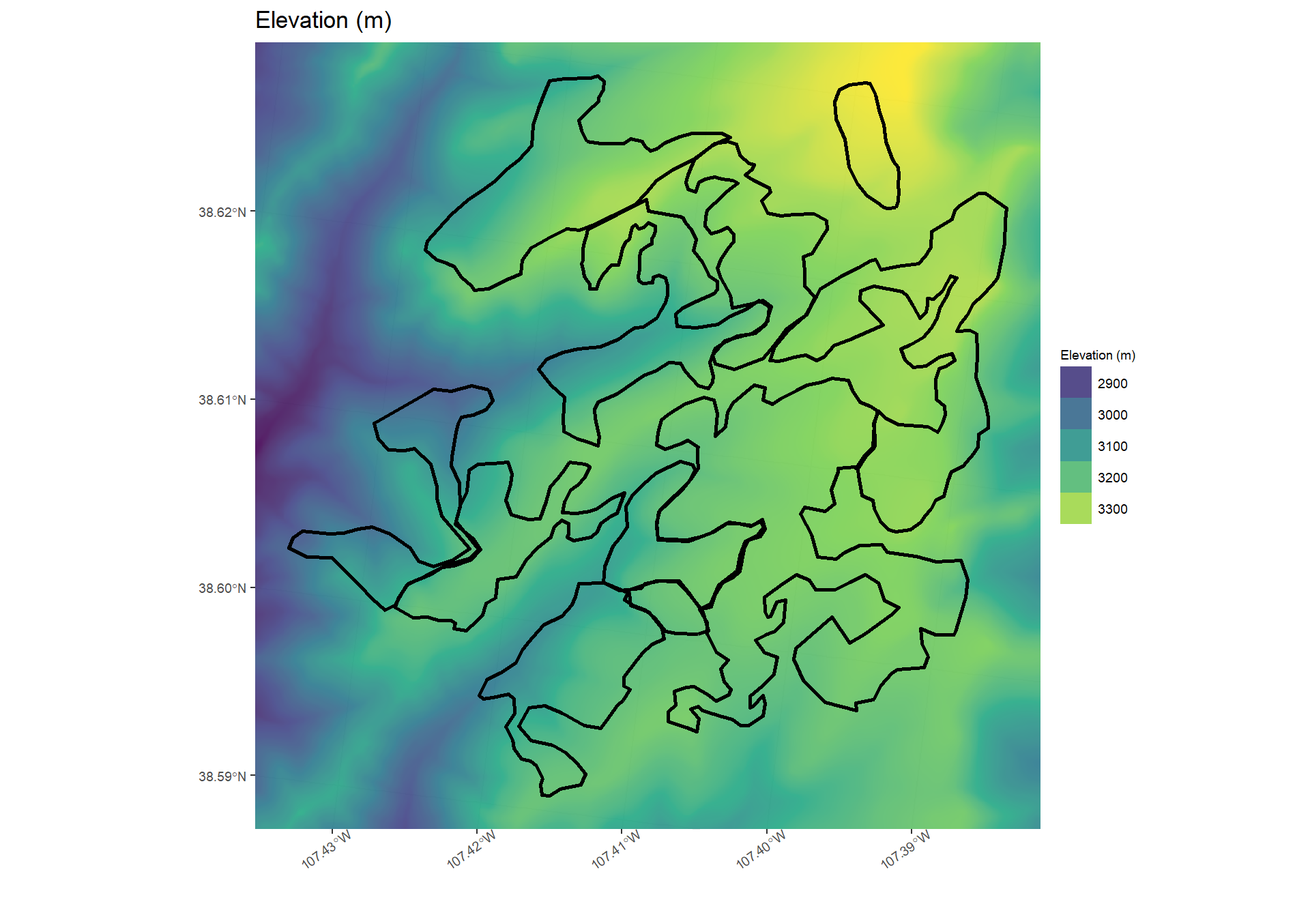
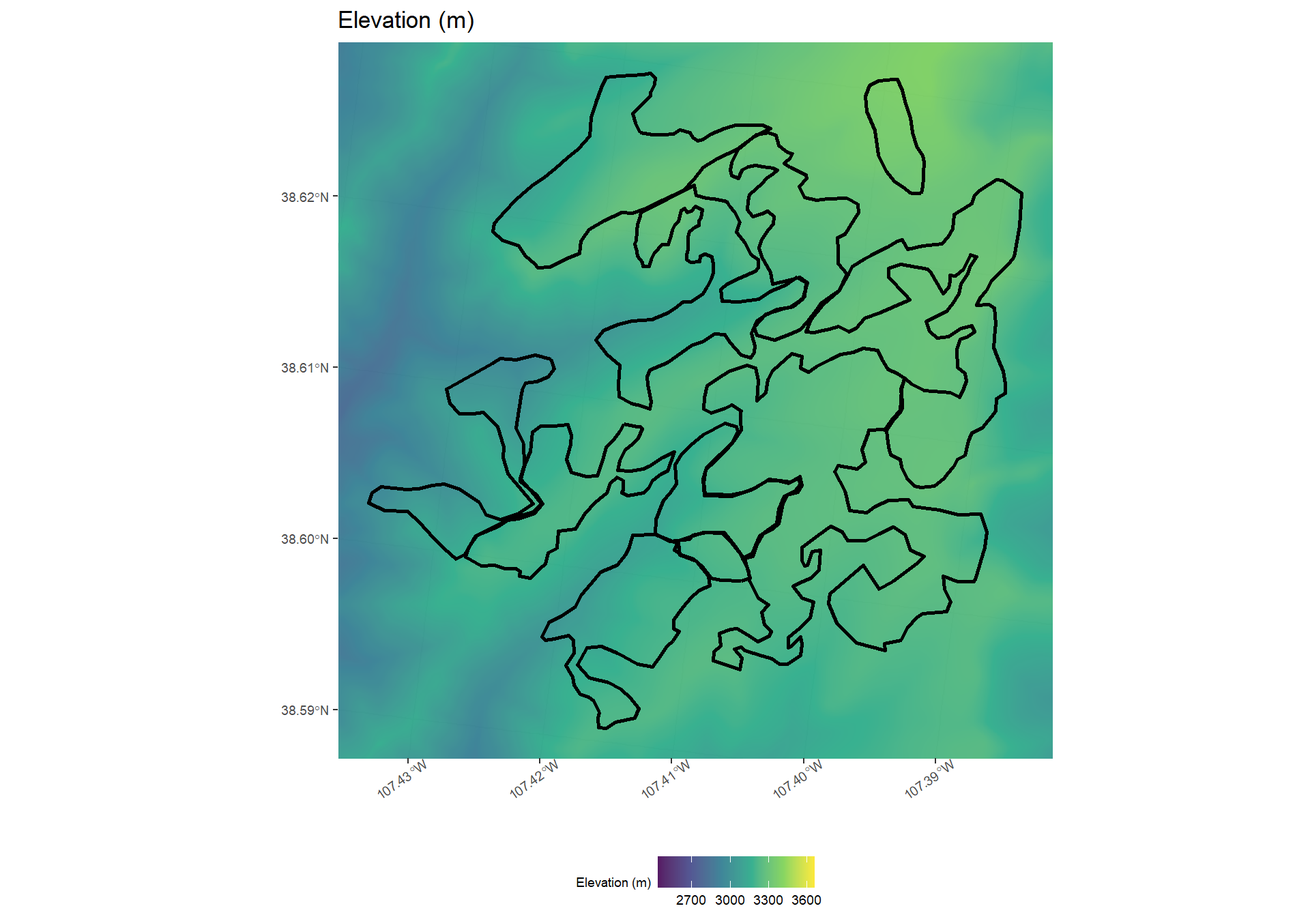
updating

diff --git a/docs/import_data.html b/docs/import_data.html
@@ -23,7 +23,7 @@
 <meta name="author" content="George Woolsey" />
 
 
-<meta name="date" content="2022-10-08" />
+<meta name="date" content="2022-10-09" />
 
   <meta name="viewport" content="width=device-width, initial-scale=1" />
   <meta name="apple-mobile-web-app-capable" content="yes" />
@@ -503,47 +503,63 @@ where <span class="math inline">\(\theta\)</span> = aspect in degrees east of no
 <span id="cb12-16"><a href="import_data.html#cb12-16" aria-hidden="true" tabindex="-1"></a>vars_color <span class="ot">&lt;-</span> <span class="fu">c</span>(</span>
 <span id="cb12-17"><a href="import_data.html#cb12-17" aria-hidden="true" tabindex="-1"></a>  <span class="st">&quot;viridis&quot;</span></span>
 <span id="cb12-18"><a href="import_data.html#cb12-18" aria-hidden="true" tabindex="-1"></a>  , <span class="st">&quot;cividis&quot;</span></span>
-<span id="cb12-19"><a href="import_data.html#cb12-19" aria-hidden="true" tabindex="-1"></a>  , <span class="st">&quot;rocket&quot;</span></span>
-<span id="cb12-20"><a href="import_data.html#cb12-20" aria-hidden="true" tabindex="-1"></a>  , <span class="st">&quot;mako&quot;</span></span>
+<span id="cb12-19"><a href="import_data.html#cb12-19" aria-hidden="true" tabindex="-1"></a>  , <span class="st">&quot;inferno&quot;</span></span>
+<span id="cb12-20"><a href="import_data.html#cb12-20" aria-hidden="true" tabindex="-1"></a>  , <span class="st">&quot;plasma&quot;</span></span>
 <span id="cb12-21"><a href="import_data.html#cb12-21" aria-hidden="true" tabindex="-1"></a>  , <span class="st">&quot;turbo&quot;</span></span>
 <span id="cb12-22"><a href="import_data.html#cb12-22" aria-hidden="true" tabindex="-1"></a>)</span>
-<span id="cb12-23"><a href="import_data.html#cb12-23" aria-hidden="true" tabindex="-1"></a><span class="co"># plts &lt;- list()</span></span>
-<span id="cb12-24"><a href="import_data.html#cb12-24" aria-hidden="true" tabindex="-1"></a>plt_fn <span class="ot">&lt;-</span> <span class="cf">function</span>(x){</span>
-<span id="cb12-25"><a href="import_data.html#cb12-25" aria-hidden="true" tabindex="-1"></a>  (</span>
-<span id="cb12-26"><a href="import_data.html#cb12-26" aria-hidden="true" tabindex="-1"></a>      <span class="fu">ggplot</span>() <span class="sc">+</span> stars<span class="sc">::</span><span class="fu">geom_stars</span>(<span class="at">data =</span> (topo <span class="sc">%&gt;%</span> dplyr<span class="sc">::</span><span class="fu">select</span>(vars[x]))[</span>
-<span id="cb12-27"><a href="import_data.html#cb12-27" aria-hidden="true" tabindex="-1"></a>        units <span class="sc">%&gt;%</span> </span>
-<span id="cb12-28"><a href="import_data.html#cb12-28" aria-hidden="true" tabindex="-1"></a>          sf<span class="sc">::</span><span class="fu">st_union</span>() <span class="sc">%&gt;%</span> </span>
-<span id="cb12-29"><a href="import_data.html#cb12-29" aria-hidden="true" tabindex="-1"></a>          sf<span class="sc">::</span><span class="fu">st_buffer</span>(<span class="at">dist =</span> <span class="dv">200</span>) <span class="sc">%&gt;%</span> </span>
-<span id="cb12-30"><a href="import_data.html#cb12-30" aria-hidden="true" tabindex="-1"></a>          sf<span class="sc">::</span><span class="fu">st_bbox</span>()</span>
-<span id="cb12-31"><a href="import_data.html#cb12-31" aria-hidden="true" tabindex="-1"></a>      ]) <span class="sc">+</span></span>
-<span id="cb12-32"><a href="import_data.html#cb12-32" aria-hidden="true" tabindex="-1"></a>      <span class="fu">scale_fill_viridis_c</span>(<span class="at">option =</span> vars_color[x], <span class="at">alpha =</span> <span class="fl">0.9</span>, <span class="at">na.value =</span> <span class="st">&quot;transparent&quot;</span>) <span class="sc">+</span></span>
-<span id="cb12-33"><a href="import_data.html#cb12-33" aria-hidden="true" tabindex="-1"></a>      <span class="fu">geom_sf</span>(<span class="at">data =</span> units, <span class="at">alpha =</span> <span class="dv">0</span>, <span class="at">lwd =</span> <span class="dv">1</span>, <span class="at">color =</span> <span class="st">&quot;black&quot;</span>) <span class="sc">+</span></span>
-<span id="cb12-34"><a href="import_data.html#cb12-34" aria-hidden="true" tabindex="-1"></a>      <span class="fu">labs</span>(</span>
-<span id="cb12-35"><a href="import_data.html#cb12-35" aria-hidden="true" tabindex="-1"></a>          <span class="at">title =</span> vars_title[x]</span>
-<span id="cb12-36"><a href="import_data.html#cb12-36" aria-hidden="true" tabindex="-1"></a>        ) <span class="sc">+</span></span>
-<span id="cb12-37"><a href="import_data.html#cb12-37" aria-hidden="true" tabindex="-1"></a>      <span class="fu">xlab</span>(<span class="st">&quot;&quot;</span>) <span class="sc">+</span></span>
-<span id="cb12-38"><a href="import_data.html#cb12-38" aria-hidden="true" tabindex="-1"></a>      <span class="fu">ylab</span>(<span class="st">&quot;&quot;</span>) <span class="sc">+</span></span>
-<span id="cb12-39"><a href="import_data.html#cb12-39" aria-hidden="true" tabindex="-1"></a>      <span class="fu">scale_x_continuous</span>(<span class="at">expand =</span> <span class="fu">c</span>(<span class="dv">0</span>, <span class="dv">0</span>)) <span class="sc">+</span></span>
-<span id="cb12-40"><a href="import_data.html#cb12-40" aria-hidden="true" tabindex="-1"></a>      <span class="fu">scale_y_continuous</span>(<span class="at">expand =</span> <span class="fu">c</span>(<span class="dv">0</span>, <span class="dv">0</span>)) <span class="sc">+</span></span>
-<span id="cb12-41"><a href="import_data.html#cb12-41" aria-hidden="true" tabindex="-1"></a>      <span class="fu">theme_bw</span>() <span class="sc">+</span></span>
-<span id="cb12-42"><a href="import_data.html#cb12-42" aria-hidden="true" tabindex="-1"></a>      <span class="fu">theme</span>(</span>
-<span id="cb12-43"><a href="import_data.html#cb12-43" aria-hidden="true" tabindex="-1"></a>        <span class="at">legend.margin =</span> <span class="fu">margin</span>(<span class="dv">0</span>,<span class="dv">0</span>,<span class="dv">0</span>,<span class="dv">0</span>)</span>
-<span id="cb12-44"><a href="import_data.html#cb12-44" aria-hidden="true" tabindex="-1"></a>        , <span class="at">legend.text =</span> <span class="fu">element_text</span>(<span class="at">size =</span> <span class="dv">7</span>)</span>
-<span id="cb12-45"><a href="import_data.html#cb12-45" aria-hidden="true" tabindex="-1"></a>        , <span class="at">legend.title =</span> <span class="fu">element_text</span>(<span class="at">size =</span> <span class="dv">7</span>)</span>
-<span id="cb12-46"><a href="import_data.html#cb12-46" aria-hidden="true" tabindex="-1"></a>        , <span class="at">axis.text.y =</span> <span class="fu">element_text</span>(<span class="at">size =</span> <span class="dv">7</span>)</span>
-<span id="cb12-47"><a href="import_data.html#cb12-47" aria-hidden="true" tabindex="-1"></a>        , <span class="at">axis.text.x =</span> <span class="fu">element_text</span>(<span class="at">size =</span> <span class="dv">7</span>, <span class="at">angle =</span> <span class="dv">35</span>, <span class="at">hjust =</span> <span class="fl">0.7</span>)</span>
-<span id="cb12-48"><a href="import_data.html#cb12-48" aria-hidden="true" tabindex="-1"></a>        , <span class="at">panel.border =</span> <span class="fu">element_blank</span>()</span>
-<span id="cb12-49"><a href="import_data.html#cb12-49" aria-hidden="true" tabindex="-1"></a>      ) <span class="sc">+</span></span>
-<span id="cb12-50"><a href="import_data.html#cb12-50" aria-hidden="true" tabindex="-1"></a>      <span class="fu">guides</span>(</span>
-<span id="cb12-51"><a href="import_data.html#cb12-51" aria-hidden="true" tabindex="-1"></a>        <span class="at">fill =</span> <span class="fu">guide_legend</span>(<span class="at">title=</span>vars_title[x])</span>
-<span id="cb12-52"><a href="import_data.html#cb12-52" aria-hidden="true" tabindex="-1"></a>      )</span>
-<span id="cb12-53"><a href="import_data.html#cb12-53" aria-hidden="true" tabindex="-1"></a>  )</span>
-<span id="cb12-54"><a href="import_data.html#cb12-54" aria-hidden="true" tabindex="-1"></a>}</span>
-<span id="cb12-55"><a href="import_data.html#cb12-55" aria-hidden="true" tabindex="-1"></a></span>
-<span id="cb12-56"><a href="import_data.html#cb12-56" aria-hidden="true" tabindex="-1"></a><span class="co"># combine plots</span></span>
-<span id="cb12-57"><a href="import_data.html#cb12-57" aria-hidden="true" tabindex="-1"></a><span class="co"># cowplot::plot_grid(plotlist =  plts, ncol = 2)</span></span>
-<span id="cb12-58"><a href="import_data.html#cb12-58" aria-hidden="true" tabindex="-1"></a><span class="fu">c</span>(<span class="dv">1</span><span class="sc">:</span><span class="fu">length</span>(vars)) <span class="sc">%&gt;%</span></span>
-<span id="cb12-59"><a href="import_data.html#cb12-59" aria-hidden="true" tabindex="-1"></a>  purrr<span class="sc">::</span><span class="fu">map</span>(plt_fn)</span></code></pre></div>
+<span id="cb12-23"><a href="import_data.html#cb12-23" aria-hidden="true" tabindex="-1"></a>vars_llim <span class="ot">&lt;-</span> <span class="fu">c</span>(</span>
+<span id="cb12-24"><a href="import_data.html#cb12-24" aria-hidden="true" tabindex="-1"></a>  <span class="fu">min</span>(topo<span class="sc">$</span>elev, <span class="at">na.rm=</span>T)<span class="sc">*</span>.<span class="dv">95</span></span>
+<span id="cb12-25"><a href="import_data.html#cb12-25" aria-hidden="true" tabindex="-1"></a>  , <span class="dv">0</span></span>
+<span id="cb12-26"><a href="import_data.html#cb12-26" aria-hidden="true" tabindex="-1"></a>  , <span class="dv">0</span></span>
+<span id="cb12-27"><a href="import_data.html#cb12-27" aria-hidden="true" tabindex="-1"></a>  , <span class="dv">0</span></span>
+<span id="cb12-28"><a href="import_data.html#cb12-28" aria-hidden="true" tabindex="-1"></a>  , <span class="dv">0</span></span>
+<span id="cb12-29"><a href="import_data.html#cb12-29" aria-hidden="true" tabindex="-1"></a>)</span>
+<span id="cb12-30"><a href="import_data.html#cb12-30" aria-hidden="true" tabindex="-1"></a>vars_Ulim <span class="ot">&lt;-</span> <span class="fu">c</span>(</span>
+<span id="cb12-31"><a href="import_data.html#cb12-31" aria-hidden="true" tabindex="-1"></a>  <span class="fu">max</span>(topo<span class="sc">$</span>elev, <span class="at">na.rm=</span>T)<span class="sc">*</span><span class="fl">1.05</span></span>
+<span id="cb12-32"><a href="import_data.html#cb12-32" aria-hidden="true" tabindex="-1"></a>  , <span class="fu">max</span>(<span class="fu">as.numeric</span>(topo<span class="sc">$</span>slope_deg), <span class="at">na.rm=</span>T)<span class="sc">*</span><span class="fl">1.05</span></span>
+<span id="cb12-33"><a href="import_data.html#cb12-33" aria-hidden="true" tabindex="-1"></a>  , <span class="dv">360</span></span>
+<span id="cb12-34"><a href="import_data.html#cb12-34" aria-hidden="true" tabindex="-1"></a>  , <span class="dv">180</span></span>
+<span id="cb12-35"><a href="import_data.html#cb12-35" aria-hidden="true" tabindex="-1"></a>  , <span class="dv">1</span></span>
+<span id="cb12-36"><a href="import_data.html#cb12-36" aria-hidden="true" tabindex="-1"></a>)</span>
+<span id="cb12-37"><a href="import_data.html#cb12-37" aria-hidden="true" tabindex="-1"></a><span class="co"># plts &lt;- list()</span></span>
+<span id="cb12-38"><a href="import_data.html#cb12-38" aria-hidden="true" tabindex="-1"></a>plt_fn <span class="ot">&lt;-</span> <span class="cf">function</span>(x){</span>
+<span id="cb12-39"><a href="import_data.html#cb12-39" aria-hidden="true" tabindex="-1"></a>  (</span>
+<span id="cb12-40"><a href="import_data.html#cb12-40" aria-hidden="true" tabindex="-1"></a>      <span class="fu">ggplot</span>() <span class="sc">+</span> stars<span class="sc">::</span><span class="fu">geom_stars</span>(<span class="at">data =</span> (topo <span class="sc">%&gt;%</span> dplyr<span class="sc">::</span><span class="fu">select</span>(vars[x]))[</span>
+<span id="cb12-41"><a href="import_data.html#cb12-41" aria-hidden="true" tabindex="-1"></a>        units <span class="sc">%&gt;%</span> </span>
+<span id="cb12-42"><a href="import_data.html#cb12-42" aria-hidden="true" tabindex="-1"></a>          sf<span class="sc">::</span><span class="fu">st_union</span>() <span class="sc">%&gt;%</span> </span>
+<span id="cb12-43"><a href="import_data.html#cb12-43" aria-hidden="true" tabindex="-1"></a>          sf<span class="sc">::</span><span class="fu">st_buffer</span>(<span class="at">dist =</span> <span class="dv">200</span>) <span class="sc">%&gt;%</span> </span>
+<span id="cb12-44"><a href="import_data.html#cb12-44" aria-hidden="true" tabindex="-1"></a>          sf<span class="sc">::</span><span class="fu">st_bbox</span>()</span>
+<span id="cb12-45"><a href="import_data.html#cb12-45" aria-hidden="true" tabindex="-1"></a>      ]) <span class="sc">+</span></span>
+<span id="cb12-46"><a href="import_data.html#cb12-46" aria-hidden="true" tabindex="-1"></a>      <span class="fu">scale_fill_viridis_c</span>(<span class="at">option =</span> vars_color[x], <span class="at">alpha =</span> <span class="fl">0.9</span>, <span class="at">na.value =</span> <span class="st">&quot;transparent&quot;</span></span>
+<span id="cb12-47"><a href="import_data.html#cb12-47" aria-hidden="true" tabindex="-1"></a>          , <span class="at">limits =</span> <span class="fu">c</span>(vars_llim[x], vars_Ulim[x])</span>
+<span id="cb12-48"><a href="import_data.html#cb12-48" aria-hidden="true" tabindex="-1"></a>      ) <span class="sc">+</span></span>
+<span id="cb12-49"><a href="import_data.html#cb12-49" aria-hidden="true" tabindex="-1"></a>      <span class="fu">geom_sf</span>(<span class="at">data =</span> units, <span class="at">alpha =</span> <span class="dv">0</span>, <span class="at">lwd =</span> <span class="dv">1</span>, <span class="at">color =</span> <span class="st">&quot;black&quot;</span>) <span class="sc">+</span></span>
+<span id="cb12-50"><a href="import_data.html#cb12-50" aria-hidden="true" tabindex="-1"></a>      <span class="fu">labs</span>(</span>
+<span id="cb12-51"><a href="import_data.html#cb12-51" aria-hidden="true" tabindex="-1"></a>          <span class="at">title =</span> vars_title[x]</span>
+<span id="cb12-52"><a href="import_data.html#cb12-52" aria-hidden="true" tabindex="-1"></a>          , <span class="at">fill =</span> vars_title[x]</span>
+<span id="cb12-53"><a href="import_data.html#cb12-53" aria-hidden="true" tabindex="-1"></a>        ) <span class="sc">+</span></span>
+<span id="cb12-54"><a href="import_data.html#cb12-54" aria-hidden="true" tabindex="-1"></a>      <span class="fu">xlab</span>(<span class="st">&quot;&quot;</span>) <span class="sc">+</span></span>
+<span id="cb12-55"><a href="import_data.html#cb12-55" aria-hidden="true" tabindex="-1"></a>      <span class="fu">ylab</span>(<span class="st">&quot;&quot;</span>) <span class="sc">+</span></span>
+<span id="cb12-56"><a href="import_data.html#cb12-56" aria-hidden="true" tabindex="-1"></a>      <span class="fu">scale_x_continuous</span>(<span class="at">expand =</span> <span class="fu">c</span>(<span class="dv">0</span>, <span class="dv">0</span>)) <span class="sc">+</span></span>
+<span id="cb12-57"><a href="import_data.html#cb12-57" aria-hidden="true" tabindex="-1"></a>      <span class="fu">scale_y_continuous</span>(<span class="at">expand =</span> <span class="fu">c</span>(<span class="dv">0</span>, <span class="dv">0</span>)) <span class="sc">+</span></span>
+<span id="cb12-58"><a href="import_data.html#cb12-58" aria-hidden="true" tabindex="-1"></a>      <span class="fu">theme_bw</span>() <span class="sc">+</span></span>
+<span id="cb12-59"><a href="import_data.html#cb12-59" aria-hidden="true" tabindex="-1"></a>      <span class="fu">theme</span>(</span>
+<span id="cb12-60"><a href="import_data.html#cb12-60" aria-hidden="true" tabindex="-1"></a>        <span class="at">legend.position =</span> <span class="st">&quot;bottom&quot;</span></span>
+<span id="cb12-61"><a href="import_data.html#cb12-61" aria-hidden="true" tabindex="-1"></a>        , <span class="at">legend.direction =</span> <span class="st">&quot;horizontal&quot;</span></span>
+<span id="cb12-62"><a href="import_data.html#cb12-62" aria-hidden="true" tabindex="-1"></a>        , <span class="at">legend.margin =</span> <span class="fu">margin</span>(<span class="dv">0</span>,<span class="dv">0</span>,<span class="dv">0</span>,<span class="dv">0</span>)</span>
+<span id="cb12-63"><a href="import_data.html#cb12-63" aria-hidden="true" tabindex="-1"></a>        , <span class="at">legend.text =</span> <span class="fu">element_text</span>(<span class="at">size =</span> <span class="dv">7</span>)</span>
+<span id="cb12-64"><a href="import_data.html#cb12-64" aria-hidden="true" tabindex="-1"></a>        , <span class="at">legend.title =</span> <span class="fu">element_text</span>(<span class="at">size =</span> <span class="dv">7</span>)</span>
+<span id="cb12-65"><a href="import_data.html#cb12-65" aria-hidden="true" tabindex="-1"></a>        , <span class="at">axis.text.y =</span> <span class="fu">element_text</span>(<span class="at">size =</span> <span class="dv">7</span>)</span>
+<span id="cb12-66"><a href="import_data.html#cb12-66" aria-hidden="true" tabindex="-1"></a>        , <span class="at">axis.text.x =</span> <span class="fu">element_text</span>(<span class="at">size =</span> <span class="dv">7</span>, <span class="at">angle =</span> <span class="dv">35</span>, <span class="at">hjust =</span> <span class="fl">0.7</span>)</span>
+<span id="cb12-67"><a href="import_data.html#cb12-67" aria-hidden="true" tabindex="-1"></a>        , <span class="at">panel.border =</span> <span class="fu">element_blank</span>()</span>
+<span id="cb12-68"><a href="import_data.html#cb12-68" aria-hidden="true" tabindex="-1"></a>      ) </span>
+<span id="cb12-69"><a href="import_data.html#cb12-69" aria-hidden="true" tabindex="-1"></a>  )</span>
+<span id="cb12-70"><a href="import_data.html#cb12-70" aria-hidden="true" tabindex="-1"></a>}</span>
+<span id="cb12-71"><a href="import_data.html#cb12-71" aria-hidden="true" tabindex="-1"></a></span>
+<span id="cb12-72"><a href="import_data.html#cb12-72" aria-hidden="true" tabindex="-1"></a><span class="co"># combine plots</span></span>
+<span id="cb12-73"><a href="import_data.html#cb12-73" aria-hidden="true" tabindex="-1"></a><span class="co"># cowplot::plot_grid(plotlist =  plts, ncol = 2)</span></span>
+<span id="cb12-74"><a href="import_data.html#cb12-74" aria-hidden="true" tabindex="-1"></a><span class="fu">c</span>(<span class="dv">1</span><span class="sc">:</span><span class="fu">length</span>(vars)) <span class="sc">%&gt;%</span></span>
+<span id="cb12-75"><a href="import_data.html#cb12-75" aria-hidden="true" tabindex="-1"></a>  purrr<span class="sc">::</span><span class="fu">map</span>(plt_fn)</span></code></pre></div>
 <p><img src="usfs_GMUG_grpselection_files/figure-html/unnamed-chunk-15-1.png" width="960" /><img src="usfs_GMUG_grpselection_files/figure-html/unnamed-chunk-15-2.png" width="960" /><img src="usfs_GMUG_grpselection_files/figure-html/unnamed-chunk-15-3.png" width="960" /><img src="usfs_GMUG_grpselection_files/figure-html/unnamed-chunk-15-4.png" width="960" /><img src="usfs_GMUG_grpselection_files/figure-html/unnamed-chunk-15-5.png" width="960" /></p>
 </div>
 </div>
@@ -594,38 +610,40 @@ where <span class="math inline">\(\theta\)</span> = aspect in degrees east of no
 <span id="cb14-7"><a href="import_data.html#cb14-7" aria-hidden="true" tabindex="-1"></a>        temp_dta <span class="sc">%&gt;%</span> </span>
 <span id="cb14-8"><a href="import_data.html#cb14-8" aria-hidden="true" tabindex="-1"></a>          sf<span class="sc">::</span><span class="fu">st_buffer</span>(<span class="at">dist =</span> <span class="dv">30</span>)</span>
 <span id="cb14-9"><a href="import_data.html#cb14-9" aria-hidden="true" tabindex="-1"></a>      ]) <span class="sc">+</span></span>
-<span id="cb14-10"><a href="import_data.html#cb14-10" aria-hidden="true" tabindex="-1"></a>      <span class="fu">scale_fill_viridis_c</span>(<span class="at">option =</span> vars_color[x], <span class="at">alpha =</span> <span class="fl">0.9</span>, <span class="at">na.value =</span> <span class="st">&quot;transparent&quot;</span>) <span class="sc">+</span></span>
-<span id="cb14-11"><a href="import_data.html#cb14-11" aria-hidden="true" tabindex="-1"></a>      <span class="fu">geom_sf</span>(<span class="at">data =</span> temp_dta</span>
-<span id="cb14-12"><a href="import_data.html#cb14-12" aria-hidden="true" tabindex="-1"></a>        , <span class="at">alpha =</span> <span class="dv">0</span>, <span class="at">lwd =</span> <span class="fl">1.1</span>, <span class="at">color =</span> <span class="st">&quot;black&quot;</span></span>
-<span id="cb14-13"><a href="import_data.html#cb14-13" aria-hidden="true" tabindex="-1"></a>      ) <span class="sc">+</span></span>
-<span id="cb14-14"><a href="import_data.html#cb14-14" aria-hidden="true" tabindex="-1"></a>      <span class="fu">labs</span>(</span>
-<span id="cb14-15"><a href="import_data.html#cb14-15" aria-hidden="true" tabindex="-1"></a>          <span class="at">title =</span> <span class="fu">paste0</span>(<span class="st">&quot;Example group (area = &quot;</span></span>
-<span id="cb14-16"><a href="import_data.html#cb14-16" aria-hidden="true" tabindex="-1"></a>                         , scales<span class="sc">::</span><span class="fu">comma</span>(temp_dta<span class="sc">$</span>area_m2, <span class="at">accuracy =</span> <span class="dv">1</span>)</span>
-<span id="cb14-17"><a href="import_data.html#cb14-17" aria-hidden="true" tabindex="-1"></a>                         , <span class="st">&quot; m sq.)&quot;</span></span>
-<span id="cb14-18"><a href="import_data.html#cb14-18" aria-hidden="true" tabindex="-1"></a>              )</span>
-<span id="cb14-19"><a href="import_data.html#cb14-19" aria-hidden="true" tabindex="-1"></a>          , <span class="at">subtitle =</span> vars_title[x]</span>
-<span id="cb14-20"><a href="import_data.html#cb14-20" aria-hidden="true" tabindex="-1"></a>        ) <span class="sc">+</span></span>
-<span id="cb14-21"><a href="import_data.html#cb14-21" aria-hidden="true" tabindex="-1"></a>      <span class="fu">xlab</span>(<span class="st">&quot;&quot;</span>) <span class="sc">+</span></span>
-<span id="cb14-22"><a href="import_data.html#cb14-22" aria-hidden="true" tabindex="-1"></a>      <span class="fu">ylab</span>(<span class="st">&quot;&quot;</span>) <span class="sc">+</span></span>
-<span id="cb14-23"><a href="import_data.html#cb14-23" aria-hidden="true" tabindex="-1"></a>      <span class="fu">scale_x_continuous</span>(<span class="at">expand =</span> <span class="fu">c</span>(<span class="dv">0</span>, <span class="dv">0</span>)) <span class="sc">+</span></span>
-<span id="cb14-24"><a href="import_data.html#cb14-24" aria-hidden="true" tabindex="-1"></a>      <span class="fu">scale_y_continuous</span>(<span class="at">expand =</span> <span class="fu">c</span>(<span class="dv">0</span>, <span class="dv">0</span>)) <span class="sc">+</span></span>
-<span id="cb14-25"><a href="import_data.html#cb14-25" aria-hidden="true" tabindex="-1"></a>      <span class="fu">theme_bw</span>() <span class="sc">+</span></span>
-<span id="cb14-26"><a href="import_data.html#cb14-26" aria-hidden="true" tabindex="-1"></a>      <span class="fu">theme</span>(</span>
-<span id="cb14-27"><a href="import_data.html#cb14-27" aria-hidden="true" tabindex="-1"></a>        <span class="at">legend.margin =</span> <span class="fu">margin</span>(<span class="dv">0</span>,<span class="dv">0</span>,<span class="dv">0</span>,<span class="dv">0</span>)</span>
-<span id="cb14-28"><a href="import_data.html#cb14-28" aria-hidden="true" tabindex="-1"></a>        , <span class="at">legend.text =</span> <span class="fu">element_text</span>(<span class="at">size =</span> <span class="dv">7</span>)</span>
-<span id="cb14-29"><a href="import_data.html#cb14-29" aria-hidden="true" tabindex="-1"></a>        , <span class="at">legend.title =</span> <span class="fu">element_text</span>(<span class="at">size =</span> <span class="dv">7</span>)</span>
-<span id="cb14-30"><a href="import_data.html#cb14-30" aria-hidden="true" tabindex="-1"></a>        , <span class="at">axis.text.y =</span> <span class="fu">element_text</span>(<span class="at">size =</span> <span class="dv">7</span>)</span>
-<span id="cb14-31"><a href="import_data.html#cb14-31" aria-hidden="true" tabindex="-1"></a>        , <span class="at">axis.text.x =</span> <span class="fu">element_text</span>(<span class="at">size =</span> <span class="dv">7</span>, <span class="at">angle =</span> <span class="dv">35</span>, <span class="at">hjust =</span> <span class="fl">0.7</span>)</span>
-<span id="cb14-32"><a href="import_data.html#cb14-32" aria-hidden="true" tabindex="-1"></a>        , <span class="at">panel.border =</span> <span class="fu">element_blank</span>()</span>
-<span id="cb14-33"><a href="import_data.html#cb14-33" aria-hidden="true" tabindex="-1"></a>      ) <span class="sc">+</span></span>
-<span id="cb14-34"><a href="import_data.html#cb14-34" aria-hidden="true" tabindex="-1"></a>      <span class="fu">guides</span>(</span>
-<span id="cb14-35"><a href="import_data.html#cb14-35" aria-hidden="true" tabindex="-1"></a>        <span class="at">fill =</span> <span class="fu">guide_legend</span>(<span class="at">title=</span>vars_title[x])</span>
-<span id="cb14-36"><a href="import_data.html#cb14-36" aria-hidden="true" tabindex="-1"></a>      )</span>
-<span id="cb14-37"><a href="import_data.html#cb14-37" aria-hidden="true" tabindex="-1"></a>  )</span>
-<span id="cb14-38"><a href="import_data.html#cb14-38" aria-hidden="true" tabindex="-1"></a>}</span>
-<span id="cb14-39"><a href="import_data.html#cb14-39" aria-hidden="true" tabindex="-1"></a></span>
-<span id="cb14-40"><a href="import_data.html#cb14-40" aria-hidden="true" tabindex="-1"></a><span class="fu">c</span>(<span class="dv">1</span><span class="sc">:</span><span class="fu">length</span>(vars)) <span class="sc">%&gt;%</span></span>
-<span id="cb14-41"><a href="import_data.html#cb14-41" aria-hidden="true" tabindex="-1"></a>  purrr<span class="sc">::</span><span class="fu">map</span>(plt_grp_fn)</span></code></pre></div>
+<span id="cb14-10"><a href="import_data.html#cb14-10" aria-hidden="true" tabindex="-1"></a>      <span class="fu">scale_fill_viridis_c</span>(<span class="at">option =</span> vars_color[x], <span class="at">alpha =</span> <span class="fl">0.9</span>, <span class="at">na.value =</span> <span class="st">&quot;transparent&quot;</span></span>
+<span id="cb14-11"><a href="import_data.html#cb14-11" aria-hidden="true" tabindex="-1"></a>          , <span class="at">limits =</span> <span class="fu">c</span>(vars_llim[x], vars_Ulim[x])</span>
+<span id="cb14-12"><a href="import_data.html#cb14-12" aria-hidden="true" tabindex="-1"></a>      ) <span class="sc">+</span></span>
+<span id="cb14-13"><a href="import_data.html#cb14-13" aria-hidden="true" tabindex="-1"></a>      <span class="fu">geom_sf</span>(<span class="at">data =</span> temp_dta</span>
+<span id="cb14-14"><a href="import_data.html#cb14-14" aria-hidden="true" tabindex="-1"></a>        , <span class="at">alpha =</span> <span class="dv">0</span>, <span class="at">lwd =</span> <span class="fl">1.1</span>, <span class="at">color =</span> <span class="st">&quot;black&quot;</span></span>
+<span id="cb14-15"><a href="import_data.html#cb14-15" aria-hidden="true" tabindex="-1"></a>      ) <span class="sc">+</span></span>
+<span id="cb14-16"><a href="import_data.html#cb14-16" aria-hidden="true" tabindex="-1"></a>      <span class="fu">labs</span>(</span>
+<span id="cb14-17"><a href="import_data.html#cb14-17" aria-hidden="true" tabindex="-1"></a>          <span class="at">title =</span> <span class="fu">paste0</span>(<span class="st">&quot;Example group (area = &quot;</span></span>
+<span id="cb14-18"><a href="import_data.html#cb14-18" aria-hidden="true" tabindex="-1"></a>                         , scales<span class="sc">::</span><span class="fu">comma</span>(temp_dta<span class="sc">$</span>area_m2, <span class="at">accuracy =</span> <span class="dv">1</span>)</span>
+<span id="cb14-19"><a href="import_data.html#cb14-19" aria-hidden="true" tabindex="-1"></a>                         , <span class="st">&quot; m sq.)&quot;</span></span>
+<span id="cb14-20"><a href="import_data.html#cb14-20" aria-hidden="true" tabindex="-1"></a>              )</span>
+<span id="cb14-21"><a href="import_data.html#cb14-21" aria-hidden="true" tabindex="-1"></a>          , <span class="at">subtitle =</span> vars_title[x]</span>
+<span id="cb14-22"><a href="import_data.html#cb14-22" aria-hidden="true" tabindex="-1"></a>          , <span class="at">fill =</span> vars_title[x]</span>
+<span id="cb14-23"><a href="import_data.html#cb14-23" aria-hidden="true" tabindex="-1"></a>        ) <span class="sc">+</span></span>
+<span id="cb14-24"><a href="import_data.html#cb14-24" aria-hidden="true" tabindex="-1"></a>      <span class="fu">xlab</span>(<span class="st">&quot;&quot;</span>) <span class="sc">+</span></span>
+<span id="cb14-25"><a href="import_data.html#cb14-25" aria-hidden="true" tabindex="-1"></a>      <span class="fu">ylab</span>(<span class="st">&quot;&quot;</span>) <span class="sc">+</span></span>
+<span id="cb14-26"><a href="import_data.html#cb14-26" aria-hidden="true" tabindex="-1"></a>      <span class="fu">scale_x_continuous</span>(<span class="at">expand =</span> <span class="fu">c</span>(<span class="dv">0</span>, <span class="dv">0</span>)) <span class="sc">+</span></span>
+<span id="cb14-27"><a href="import_data.html#cb14-27" aria-hidden="true" tabindex="-1"></a>      <span class="fu">scale_y_continuous</span>(<span class="at">expand =</span> <span class="fu">c</span>(<span class="dv">0</span>, <span class="dv">0</span>)) <span class="sc">+</span></span>
+<span id="cb14-28"><a href="import_data.html#cb14-28" aria-hidden="true" tabindex="-1"></a>      <span class="fu">theme_bw</span>() <span class="sc">+</span></span>
+<span id="cb14-29"><a href="import_data.html#cb14-29" aria-hidden="true" tabindex="-1"></a>      <span class="fu">theme</span>(</span>
+<span id="cb14-30"><a href="import_data.html#cb14-30" aria-hidden="true" tabindex="-1"></a>        <span class="at">legend.position =</span> <span class="st">&quot;bottom&quot;</span></span>
+<span id="cb14-31"><a href="import_data.html#cb14-31" aria-hidden="true" tabindex="-1"></a>        , <span class="at">legend.direction =</span> <span class="st">&quot;horizontal&quot;</span></span>
+<span id="cb14-32"><a href="import_data.html#cb14-32" aria-hidden="true" tabindex="-1"></a>        , <span class="at">legend.margin =</span> <span class="fu">margin</span>(<span class="dv">0</span>,<span class="dv">0</span>,<span class="dv">0</span>,<span class="dv">0</span>)</span>
+<span id="cb14-33"><a href="import_data.html#cb14-33" aria-hidden="true" tabindex="-1"></a>        , <span class="at">legend.text =</span> <span class="fu">element_text</span>(<span class="at">size =</span> <span class="dv">7</span>)</span>
+<span id="cb14-34"><a href="import_data.html#cb14-34" aria-hidden="true" tabindex="-1"></a>        , <span class="at">legend.title =</span> <span class="fu">element_text</span>(<span class="at">size =</span> <span class="dv">7</span>)</span>
+<span id="cb14-35"><a href="import_data.html#cb14-35" aria-hidden="true" tabindex="-1"></a>        , <span class="at">axis.text.y =</span> <span class="fu">element_text</span>(<span class="at">size =</span> <span class="dv">7</span>)</span>
+<span id="cb14-36"><a href="import_data.html#cb14-36" aria-hidden="true" tabindex="-1"></a>        , <span class="at">axis.text.x =</span> <span class="fu">element_text</span>(<span class="at">size =</span> <span class="dv">7</span>, <span class="at">angle =</span> <span class="dv">35</span>, <span class="at">hjust =</span> <span class="fl">0.7</span>)</span>
+<span id="cb14-37"><a href="import_data.html#cb14-37" aria-hidden="true" tabindex="-1"></a>        , <span class="at">panel.border =</span> <span class="fu">element_blank</span>()</span>
+<span id="cb14-38"><a href="import_data.html#cb14-38" aria-hidden="true" tabindex="-1"></a>      ) </span>
+<span id="cb14-39"><a href="import_data.html#cb14-39" aria-hidden="true" tabindex="-1"></a>  )</span>
+<span id="cb14-40"><a href="import_data.html#cb14-40" aria-hidden="true" tabindex="-1"></a>}</span>
+<span id="cb14-41"><a href="import_data.html#cb14-41" aria-hidden="true" tabindex="-1"></a></span>
+<span id="cb14-42"><a href="import_data.html#cb14-42" aria-hidden="true" tabindex="-1"></a><span class="fu">c</span>(<span class="dv">1</span><span class="sc">:</span><span class="fu">length</span>(vars)) <span class="sc">%&gt;%</span></span>
+<span id="cb14-43"><a href="import_data.html#cb14-43" aria-hidden="true" tabindex="-1"></a>  purrr<span class="sc">::</span><span class="fu">map</span>(plt_grp_fn)</span></code></pre></div>
 <p><img src="usfs_GMUG_grpselection_files/figure-html/unnamed-chunk-17-1.png" width="960" /><img src="usfs_GMUG_grpselection_files/figure-html/unnamed-chunk-17-2.png" width="960" /><img src="usfs_GMUG_grpselection_files/figure-html/unnamed-chunk-17-3.png" width="960" /><img src="usfs_GMUG_grpselection_files/figure-html/unnamed-chunk-17-4.png" width="960" /><img src="usfs_GMUG_grpselection_files/figure-html/unnamed-chunk-17-5.png" width="960" /></p>
 
 </div>

diff --git a/docs/index.html b/docs/index.html
@@ -23,7 +23,7 @@
 <meta name="author" content="George Woolsey" />
 
 
-<meta name="date" content="2022-10-08" />
+<meta name="date" content="2022-10-09" />
 
   <meta name="viewport" content="width=device-width, initial-scale=1" />
   <meta name="apple-mobile-web-app-capable" content="yes" />
@@ -192,7 +192,7 @@ code span.wa { color: #60a0b0; font-weight: bold; font-style: italic; } /* Warni
 <div id="header">
 <h1 class="title">GMUG National Forests Group Selection Study</h1>
 <p class="author"><em>George Woolsey</em></p>
-<p class="date"><em>2022-10-08</em></p>
+<p class="date"><em>2022-10-09</em></p>
 </div>
 <div id="objective" class="section level1 hasAnchor" number="1">
 <h1><span class="header-section-number">Chapter 1</span> Objective<a href="index.html#objective" class="anchor-section" aria-label="Anchor link to header"></a></h1>

diff --git a/docs/404.html b/docs/404.html
@@ -23,7 +23,7 @@
 <meta name="author" content="George Woolsey" />
 
 
-<meta name="date" content="2022-10-08" />
+<meta name="date" content="2022-10-09" />
 
   <meta name="viewport" content="width=device-width, initial-scale=1" />
   <meta name="apple-mobile-web-app-capable" content="yes" />
